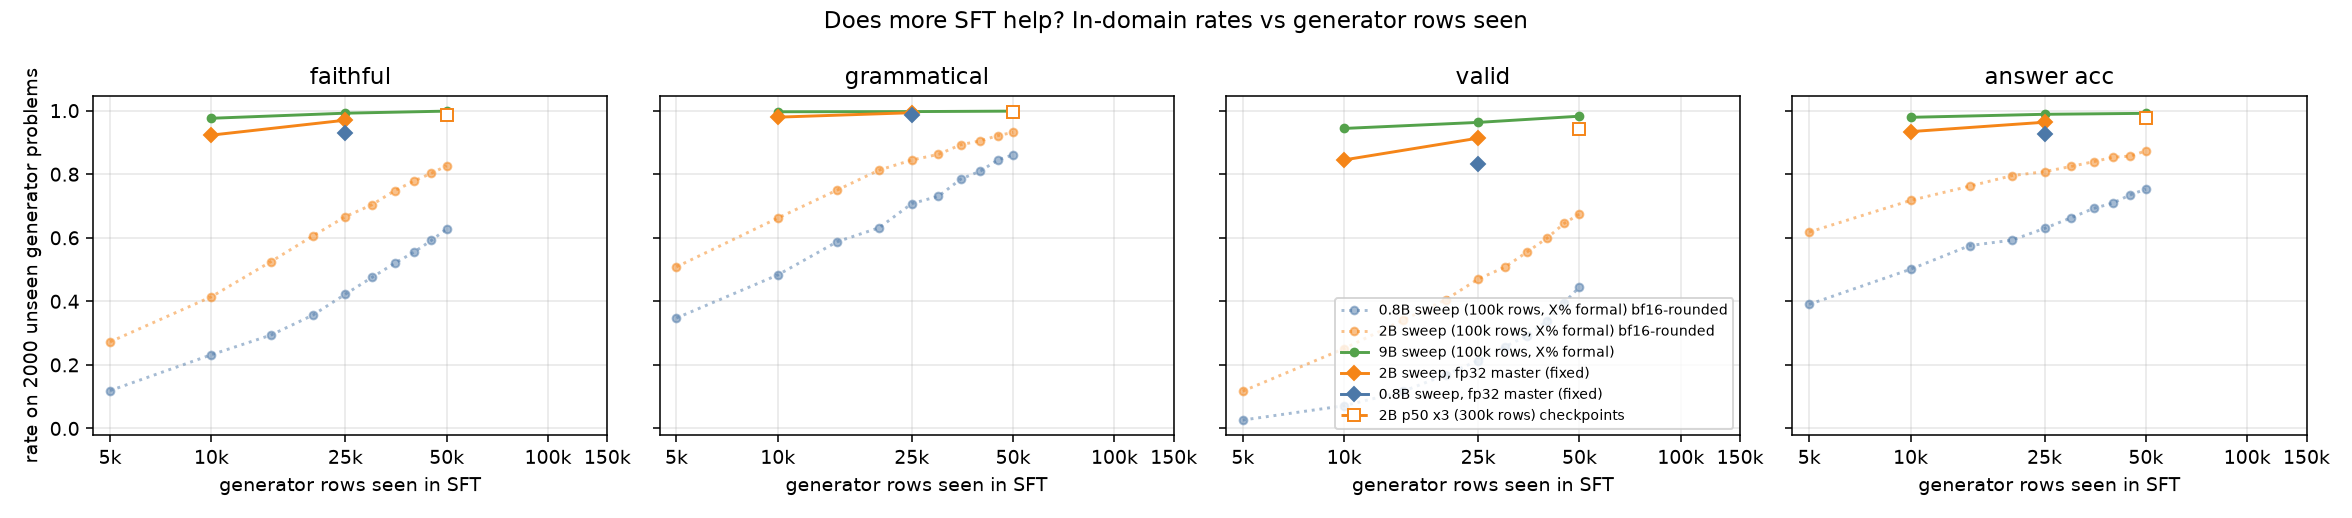
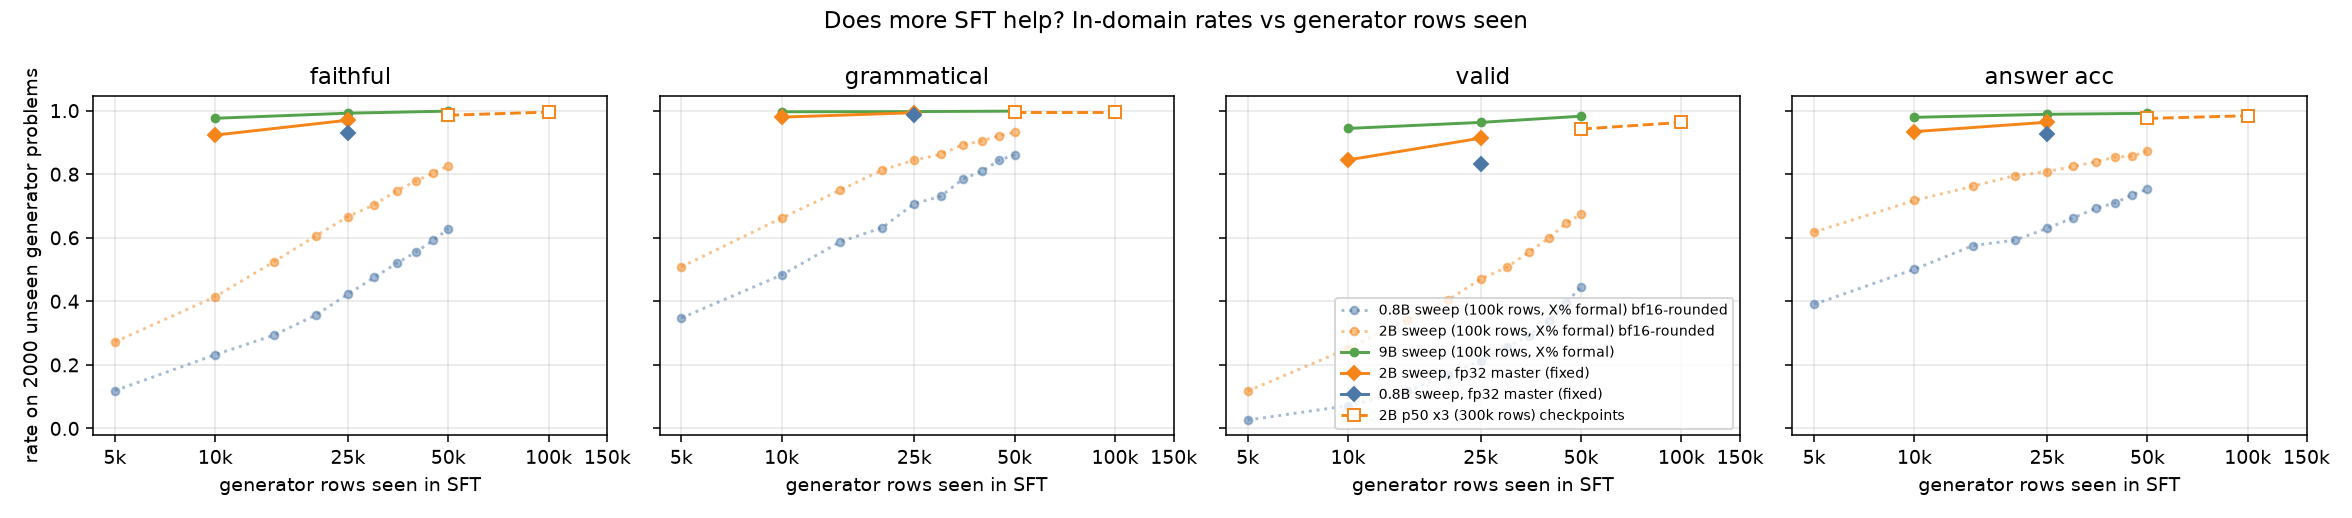
Stage 1: x3 checkpoint-1562 in-domain eval and Dolci gate
Claude-Session: https://claude.ai/code/session_01WnQYXLXLcnkw9LdZ4eJP3w

diff --git a/reports/2026-09-28_stage1_interim.md b/reports/2026-09-28_stage1_interim.md
@@ -255,3 +255,15 @@ Untagged benchmarks, 25% minus 0% (accuracy points):
 - Tagged (`<formal>` mode): ProofWriter correct goes from 24 to 44, and grammatical is 82% with 19% valid. gsm8k correct falls from 53 to 25 in formal mode. That is the same pattern as 2B, where formal mode helps deduction and hurts arithmetic word problems.
 - Dolci RL gate on the 25% final (950 items): has_proof .884, grammatical .174, valid .024, correct .151 (0% baseline: correct .139). The 2B models have the same bottleneck: the model almost always writes a proof but it rarely checks on out-of-distribution prompts.
 - In-domain (generator test split), the proofs are valid .834 at 25k synthetic rows (scale curve).
+
+## 2026-09-30 12:00: p50 x3, checkpoint-1562 (~100k generator rows)
+
+Same run as above, 2/3 through its cosine schedule. Figure: `figures/sft_scale_curve.png` (regenerated).
+
+| checkpoint | gen rows | in-domain faithful | valid | answer acc | gate has_proof | gate grammatical | gate valid | gate correct | gate valid∧correct |
+|---|---:|---:|---:|---:|---:|---:|---:|---:|---:|
+| x3 @781 | ~50k | .986 | .942 | .976 | .299 | .134 | .023 | .214 | .006 |
+| x3 @1562 | ~100k | .996 | .963 | .984 | .401 | .148 | .029 | .224 | .008 |
+
+- In-domain, the model is close to saturated (valid .942 → .963).
+- On Dolci, doubling the generator data raises has_proof by 10 points, but valid rises only 0.6 points. So more SFT on the same generator distribution does not close the Dolci validity gap. That gap needs RL, or generator coverage of Dolci-style domains (the open question to the user on extending the lib).
